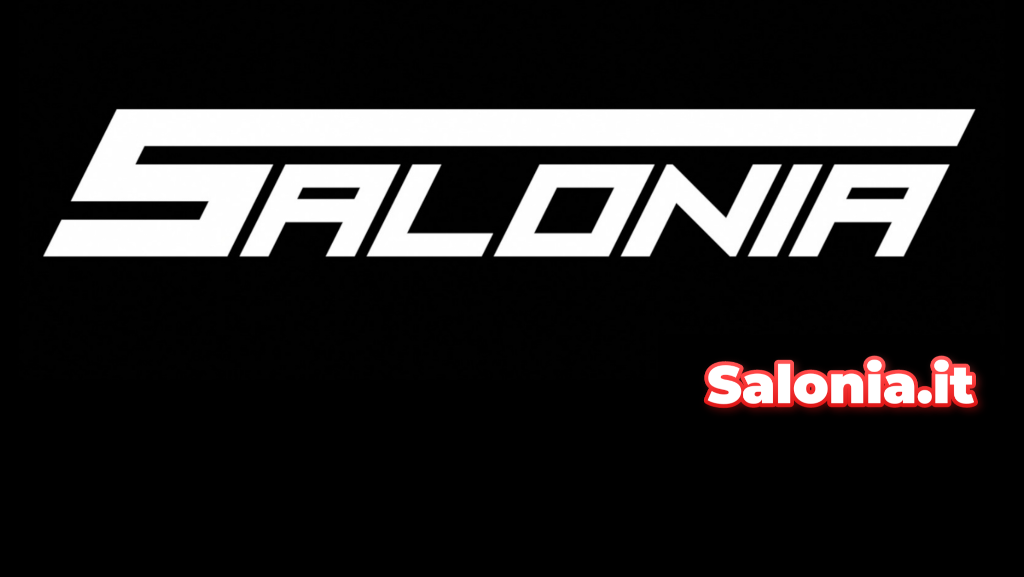
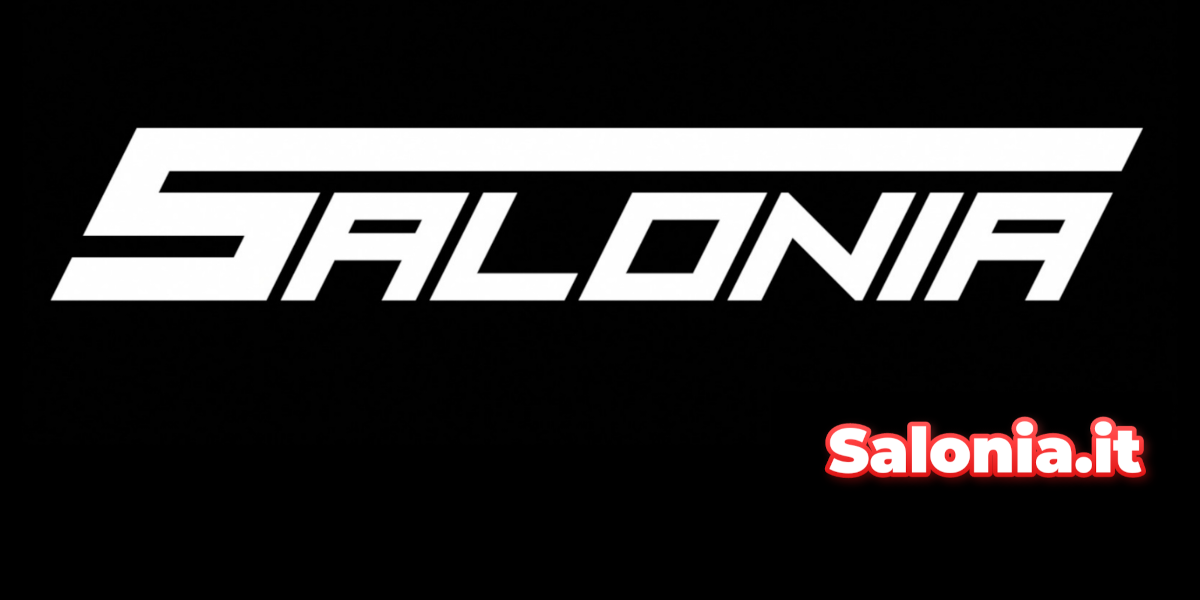
Add OG tags

Changed region(s): [[0.0312, 0.1872, 0.9688, 0.5303], [0.6875, 0.5927, 0.9688, 0.8111]]

diff --git a/resources/views/static/head.blade.php b/resources/views/static/head.blade.php
@@ -1,5 +1,6 @@
 @use('App\Helpers\Locale')
 @use('App\Helpers\Url')
+@use('Illuminate\Support\Facades\Config')
 <!DOCTYPE html>
 <html lang="{{ $lang ?? Locale::getDefaultLocale() }}">
 <head>
@@ -11,14 +12,25 @@
 
 	<!-- SEO (do not include if "noseo" is set) -->
 	@if (!isset($noseo))
-	<meta name="description"				content="{{ $desc ?? 'Desc' }}">
-	<meta property="og:description"			content="{{ $desc ?? 'Desc' }}">
-	<meta property="twitter:description"	content="{{ $desc ?? 'Desc' }}">
-	<meta property="og:title"				content="{{ $title ?? 'Hello, world!'}}">
-	<meta property="twitter:title"			content="{{ $title ?? 'Hello, world' }}">
-	<meta property="og:url"					content="{{ $url ?? Url::getURL() }}">
-	<meta property="og:image"				content="/banner.png">
-	<meta property="twitter:image"			content="/banner.png">
+	<!-- Description -->
+	<meta name="description"                content="{{ $desc ?? 'Desc' }}">
+	<meta property="og:description"         content="{{ $desc ?? 'Desc' }}">
+	<meta property="twitter:description"    content="{{ $desc ?? 'Desc' }}">
+
+	<!-- Title -->
+	<meta property="og:title"               content="{{ $title ?? 'Hello, world!'}}">
+	<meta property="twitter:title"          content="{{ $title ?? 'Hello, world' }}">
+	<meta property="og:url"                 content="{{ $url ?? Url::getURL() }}">
+
+	<!-- Banner image -->
+	<meta property="og:image:alt"           content="{{ Config::get('app.name') }}">
+	<meta property="og:image"               content="/banner.png">
+	<meta property="twitter:image"          content="/banner.png">
+	<meta property="og:image:width"         content="1200">
+	<meta property="og:image:height"        content="600">
+
+	<!-- Misc -->
+	<meta property="og:type"                content="object">
 	@endif
 
 	<!-- Favicon -->

diff --git a/config/app.php b/config/app.php
@@ -13,7 +13,7 @@ return [
     |
     */
 
-    'name' => env('APP_NAME', 'Matteo Salonia'),
+    'name' => env('APP_NAME', 'Matteo Salonia (salonia.it)'),
 
     /*
     |--------------------------------------------------------------------------
